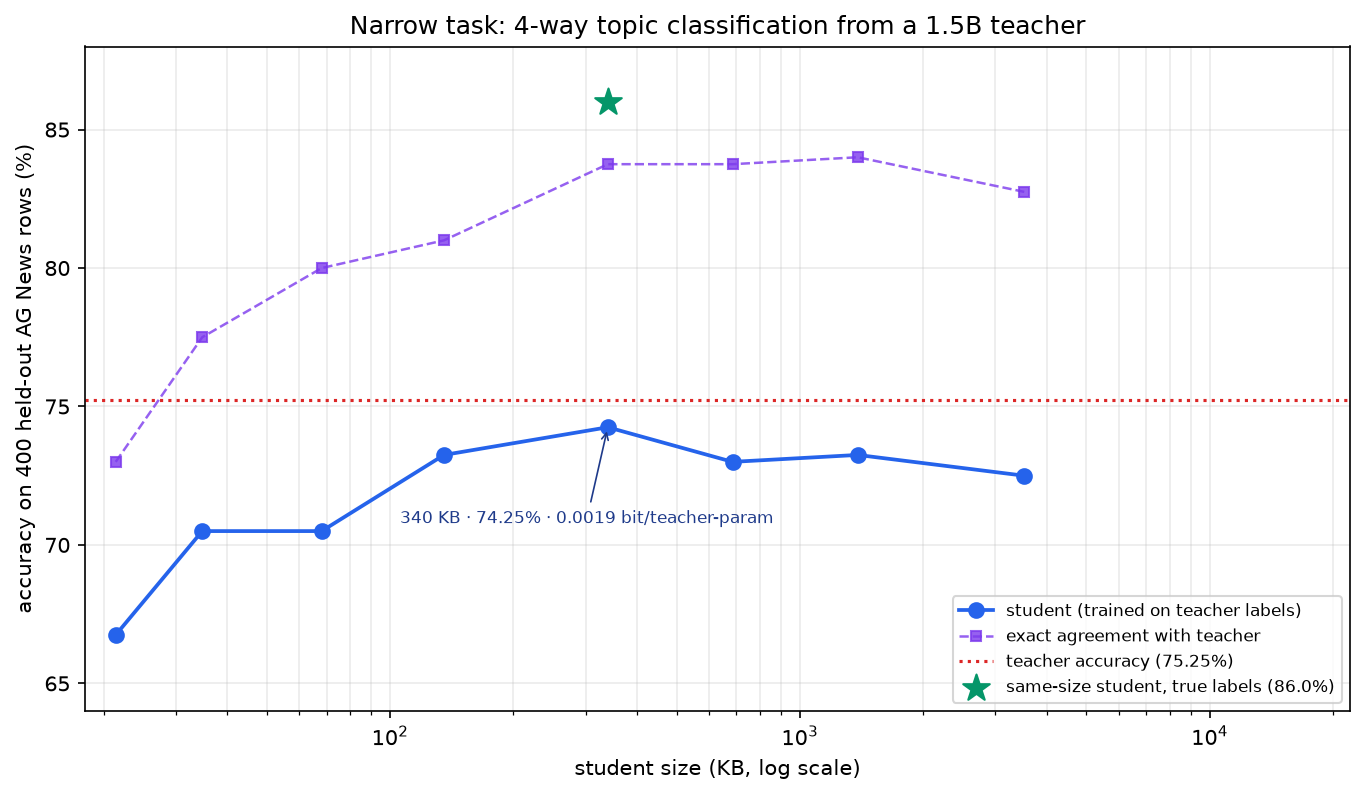
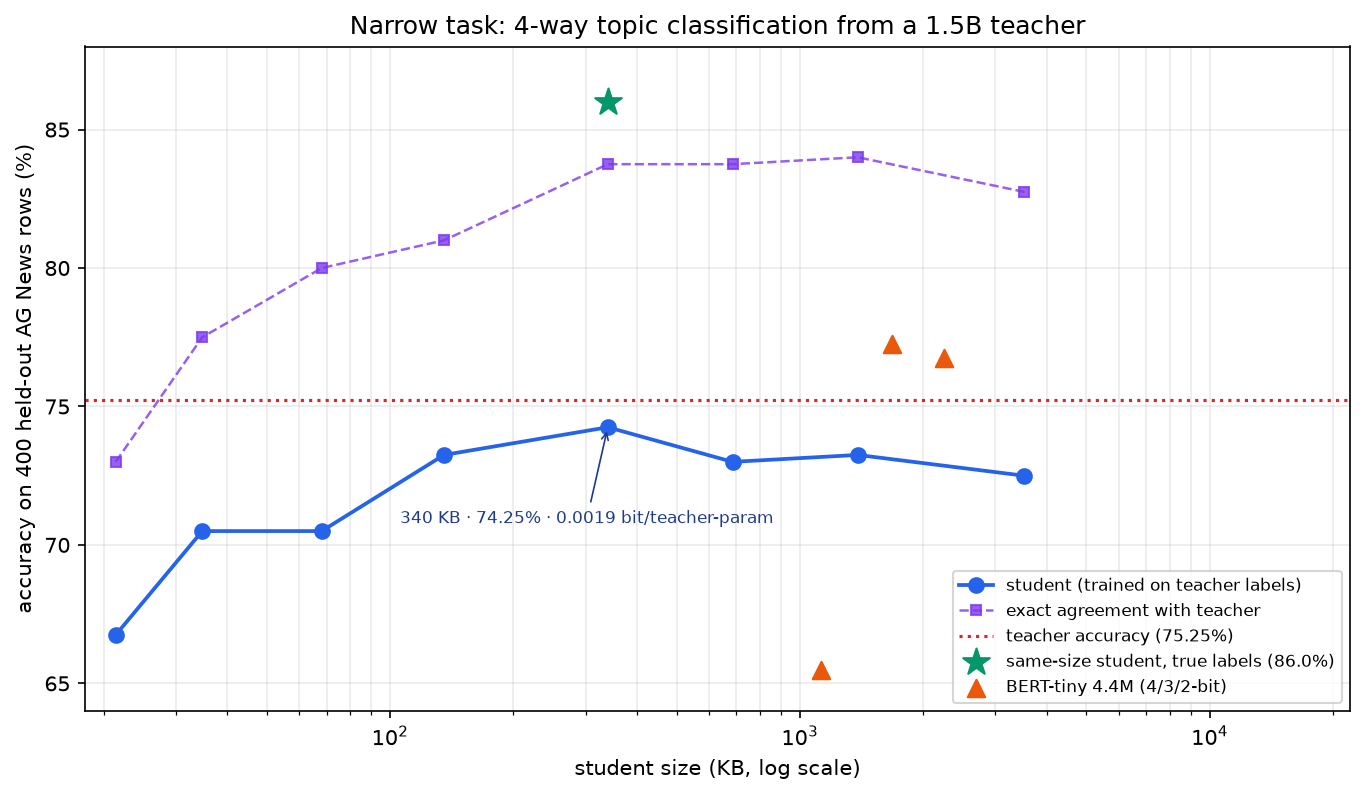
research: BERT-tiny student on AG News (2.19 MB, 76.75%, 0.0117 bit/param)
- 4.39M transformer matches the 1.5B teacher at 4-bit
- 3-bit 1.64 MB 77.25%; 2-bit 1.10 MB collapses to 65.5%
- so the AG News result is not a TF-IDF artefact, and the bit cliff is model-dependent

diff --git a/research/distill_agnews_bert_tiny.py b/research/distill_agnews_bert_tiny.py
@@ -1,0 +1,99 @@
+"""AG News: BERT-tiny (4.4M) on teacher labels, then post-hoc 4/2-bit quantization."""
+import json
+
+import torch
+from torch.utils.data import DataLoader, Dataset
+from transformers import BertConfig, BertForSequenceClassification, BertTokenizer
+
+D = json.load(open(r"research/results/agnews_labels.json", encoding="utf-8"))
+tr = [r for r in D["train"] if r["label"] != "unknown"]
+te = D["test"]
+LABELS = ["brainstorming", "classification", "closed_qa", "creative_writing",
+          "general_qa", "information_extraction", "open_qa", "summarization"]
+# AG News uses World/Sports/Business/Sci-Tech; derive the label set from the data
+LABELS = sorted({r["label"] for r in tr})
+L2I = {c: i for i, c in enumerate(LABELS)}
+print("labels", LABELS, "train", len(tr), "test", len(te))
+MODEL = "prajjwal1/bert-tiny"
+
+
+class DS(Dataset):
+    def __init__(self, rows, tok, train=True):
+        self.enc = tok([r["text"] for r in rows], truncation=True, max_length=64, padding="max_length",
+                       return_tensors="pt")
+        key = "label" if train else "true"
+        self.y = torch.tensor([L2I.get(r[key], -1) if train else L2I.get(r["true"], 0) for r in rows])
+
+    def __len__(self):
+        return len(self.y)
+
+    def __getitem__(self, i):
+        return {"input_ids": self.enc["input_ids"][i], "attention_mask": self.enc["attention_mask"][i],
+                "labels": self.y[i]}
+
+
+def quantize(w, bits, group=64):
+    shape = w.shape
+    rows = w.reshape(-1, shape[-1]).float()
+    n, cols = rows.shape
+    pad = (-cols) % group
+    if pad:
+        rows = torch.cat([rows, torch.zeros(n, pad, device=rows.device)], 1)
+    g = rows.view(n, -1, group)
+    lo, hi = g.amin(2, keepdim=True), g.amax(2, keepdim=True)
+    levels = 2 ** bits - 1
+    scale = (hi - lo).clamp_min(1e-12) / levels
+    q = ((g - lo) / scale).round().clamp(0, levels) * scale + lo
+    return q.reshape(n, -1)[:, :cols].reshape(shape).to(w.dtype)
+
+
+@torch.no_grad()
+def acc(model, ds):
+    model.eval()
+    correct = 0
+    for b in DataLoader(ds, batch_size=64):
+        b = {k: v.cuda() for k, v in b.items()}
+        correct += int((model(**b).logits.argmax(1) == b["labels"]).sum())
+    return correct / len(ds)
+
+
+def main():
+    tok = BertTokenizer.from_pretrained(MODEL)
+    cfg = BertConfig.from_pretrained(MODEL)
+    cfg.num_labels = len(LABELS)
+    model = BertForSequenceClassification.from_pretrained(MODEL, config=cfg).cuda()
+    tr_ds, te_ds = DS(tr, tok), DS(te, tok, train=False)
+    opt = torch.optim.AdamW(model.parameters(), lr=5e-5, weight_decay=0.01)
+    dl = DataLoader(tr_ds, batch_size=32, shuffle=True)
+    for ep in range(6):
+        model.train()
+        for b in dl:
+            b = {k: v.cuda() for k, v in b.items()}
+            loss = model(**b).loss
+            opt.zero_grad(); loss.backward(); opt.step()
+        print(f"epoch {ep+1} loss {loss.item():.4f} acc {acc(model, te_ds):.4f}", flush=True)
+    base = acc(model, te_ds)
+    total = sum(p.numel() for p in model.parameters())
+    print("base acc", round(base, 4), "params", round(total / 1e6, 2))
+    rows = []
+    for bits in [16, 4, 3, 2]:
+        if bits < 16:
+            orig = {k: p.detach().clone() for k, p in model.named_parameters() if p.dim() == 2}
+            for k, p in model.named_parameters():
+                if p.dim() == 2:
+                    p.data.copy_(quantize(orig[k], bits))
+        a = acc(model, te_ds)
+        size = (total * bits / 8) if bits < 16 else total * 2
+        row = {"bits": bits, "acc": round(a, 4), "size_mb": round(size / 1e6, 2),
+               "bits_per_teacher_param": round(size * 8 / 1.5e9, 5)}
+        rows.append(row); print(json.dumps(row))
+        if bits < 16:
+            for k, p in model.named_parameters():
+                if p.dim() == 2:
+                    p.data.copy_(orig[k])
+    json.dump({"base_acc": round(base, 4), "params": total, "rows": rows},
+              open(r"research/results/agnews_bert_tiny.json", "w"), indent=1)
+
+
+if __name__ == "__main__":
+    main()

diff --git a/research/plot_behavioral_bits.py b/research/plot_behavioral_bits.py
@@ -68,6 +68,10 @@ def plot_narrow():
     best = next(r for r in rows if r["features"] == 5000)
     ax.scatter([best["kb"]], [86.0], marker="*", s=180, color="#059669", zorder=5,
                label="same-size student, true labels (86.0%)")
+    bt = load("agnews_bert_tiny.json")
+    bt_pts = [(r["size_mb"] * 1024, r["acc"] * 100) for r in bt["rows"] if r["bits"] in (4, 3, 2)]
+    ax.scatter([x for x, _ in bt_pts], [y for _, y in bt_pts], marker="^", s=70,
+               color="#ea580c", zorder=5, label="BERT-tiny 4.4M (4/3/2-bit)")
     ax.annotate(f'{best["kb"]:.0f} KB · {best["acc"]*100:.2f}% · '
                 f'{best["bits_per_teacher_param"]:.4f} bit/teacher-param',
                 (best["kb"], best["acc"] * 100),

diff --git a/research/README.md b/research/README.md
@@ -15,6 +15,7 @@ AG News and SST-2 (distillation), synthetic dates (structured generation).
 | `vq_01bit.py` | 9 prototypes per 32 weights per tensor, 0.102 bit/weight, CE | ~3 min |
 | `ngram_baseline.py` | unigram / pruned bigram, same Qwen tokenizer, same test set | ~10 s |
 | `distill_agnews.py` | 1.5B teacher labels 6k AG News rows; TF-IDF+LR sweep; McNemar | ~7 min |
+| `distill_agnews_bert_tiny.py` | BERT-tiny 4.4M on the same AG News labels; 4/3/2-bit | ~3 min |
 | `distill_sst2_tfidf.py` | same protocol on SST-2 (2k train / 400 test) | ~2 min |
 | `distill_sst2_bert.py` | DistilBERT 66M on the saved SST-2 teacher labels; 16/4/3/2-bit | ~8 min |
 | `date_teacher.py` | 1.5B labels 6k date strings -> ISO; 500 test | ~20 min |
@@ -50,7 +51,8 @@ written to `research/results/` (JSON) and `results/` (PNG).
 | bigram 6.06 MB | 6.63 | 757 | 6.06 MB |
 
 **AG News (4-way, 1.5B teacher 75.25%):** 340 KB TF-IDF student = 74.25%,
-McNemar p = 0.689, 0.00186 bit/teacher-param.
+McNemar p = 0.689, 0.00186 bit/teacher-param. A 4.39M BERT-tiny at 4-bit = 2.19 MB,
+76.75% (0.0117 bit/param); 3-bit = 1.64 MB, 77.25%; 2-bit = 1.10 MB, 65.5%.
 
 **SST-2 (2-way, 1.5B teacher 94.25%):** DistilBERT 66M at 2-bit = 73.5%,
 0.0893 bit/teacher-param (-20.8 points); at 4-bit = 83.75% (-10.5 points).

diff --git a/docs/BEHAVIORAL_BITS.md b/docs/BEHAVIORAL_BITS.md
@@ -85,6 +85,19 @@ is not statistically distinguishable on 400 rows. Five-fold cross-validation ove
 combined 6,400 labels gives 85.9% ± 0.4% agreement. The same student trained on the
 **true** labels reaches 86.0% — the teacher, not the student, is the bottleneck.
 
+A transformer student on the same labels (BERT-tiny, 4.39M parameters):
+
+| student | size | accuracy | bits / teacher-param |
+|---|---:|---:|---:|
+| BERT-tiny, bf16 | 8.77 MB | 76.25% | 0.0468 |
+| BERT-tiny, 4-bit | 2.19 MB | 76.75% | 0.0117 |
+| BERT-tiny, 3-bit | 1.64 MB | 77.25% | 0.0088 |
+| BERT-tiny, 2-bit | 1.10 MB | 65.50% | 0.0059 |
+
+The transformer matches the teacher too — 76.75% vs 75.25% at 4-bit — so the AG News
+result is not a TF-IDF artefact. It also shows the bit cliff is model-dependent: this
+fine-tuned 4.4M model survives 3-bit (77.25%), while the general 0.5B does not.
+
 ![Narrow-task frontier](figures/narrow_distill.png)
 
 ## 4. The boundary: a subtle task

diff --git a/research/ARTICLE.md b/research/ARTICLE.md
@@ -80,6 +80,10 @@ the true labels reaches 86.0% — the teacher, not the student, is the bottlenec
 **0.00186 bit per teacher parameter is 54× below the 0.1-bit target.** A 340 KB model
 reproduced the relevant behaviour of a 3 GB teacher on this task.
 
+A 4.4M transformer (BERT-tiny) on the same labels does the same job at 4-bit: **76.75%,
+2.19 MB, 0.0117 bit/param**. At 3-bit it is 77.25% (1.64 MB); at 2-bit it collapses to
+65.5%. The AG News result is not a TF-IDF artefact, and the bit cliff is model-dependent.
+
 ![Narrow-task frontier](https://raw.githubusercontent.com/byjameson/stream-finetune/main/docs/figures/narrow_distill.png)
 
 ## 4. The wall: sentiment
